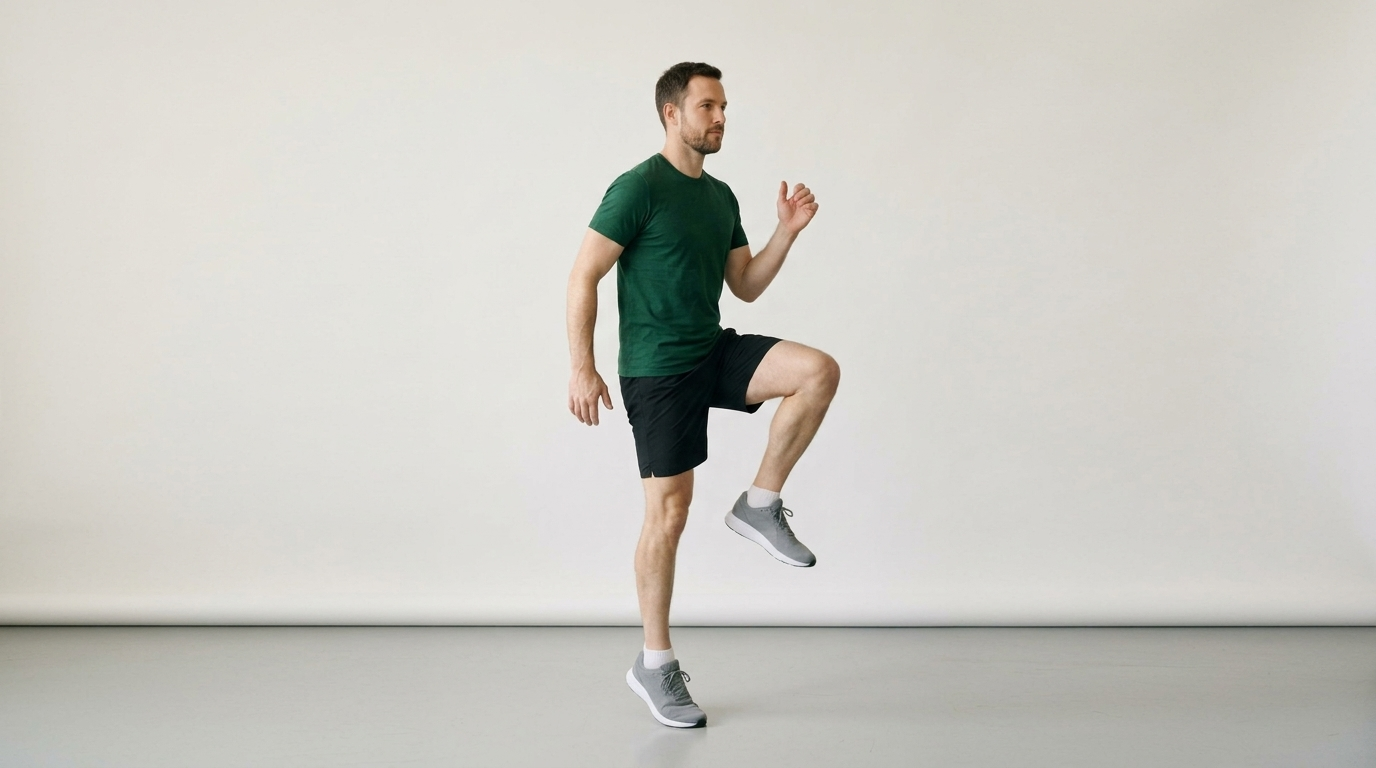
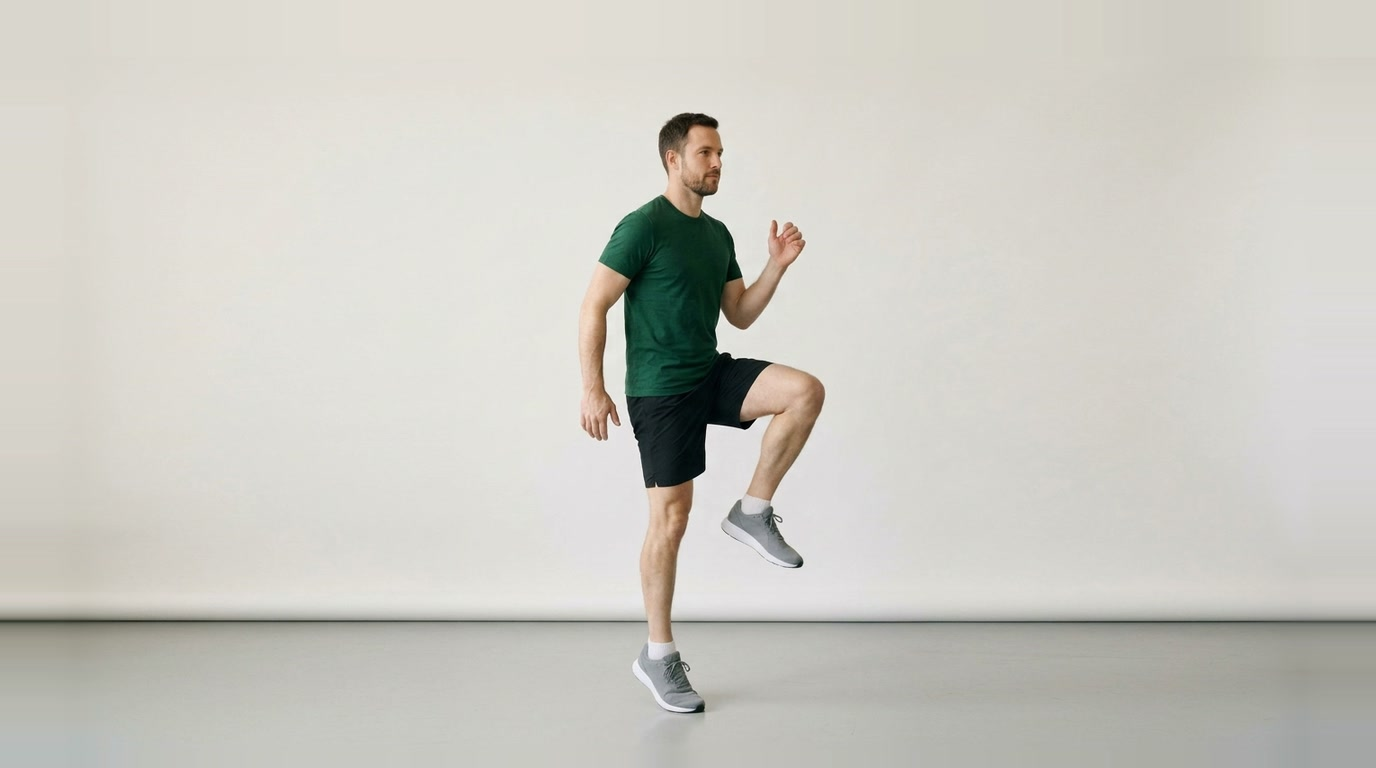
High knees picked with --wider 0.9; when --wider doesn't suit a pick
High knees hops in place with the head about 8% from the top of its
start pose. At 0.9 the head sits about 15% down, and the top edge
stays clean at 2.5 times the contrast.

Jumping jacks stays as it was. The raised hands almost touch the top
of the photo, so --wider smeared their colour into the extension in
two streaks and would fade the fingertips. Day 2's take kept the hands
inside the frame; it was rejected for timing, not framing. SKILL.md now
says when not to use --wider.

Claude-Session: https://claude.ai/code/session_0146jBLMr9x4UFpo2gcu4ZmQ

Changed region(s): [[0.0, 0.0625, 1.0, 0.9688]]

diff --git a/.claude/skills/frank-coach-video/SKILL.md b/.claude/skills/frank-coach-video/SKILL.md
@@ -162,8 +162,10 @@ Same scripts, with the key in the shell. A request file works here too:
 - A move that jumps needs room above the head, or the jump leaves the frame (day 2's jump squat).
   The image model draws a standing person top to bottom whatever the framing words say, so pick
   the start pose with `--wider` (0.85; 0.8 for a jump squat): the photo goes smaller on the same
-  frame and the plain studio is extended around it. Look at the result before committing it: it
-  suits the plain backdrop, not a picture with things near its edges.
+  frame and the plain studio is extended around it. Look at the result before committing it. It
+  only suits a photo whose edges are plain backdrop: when the person reaches an edge (the jumping
+  jacks' raised hands at the top), their colour smears into the extension in streaks and the soft
+  edge fades the fingertips, so leave that pick as it is.
 - A start pose the image model won't draw (its answer has no picture) is left out with a warning,
   and the other start poses go on. Ask for that move again in a later request.
 
